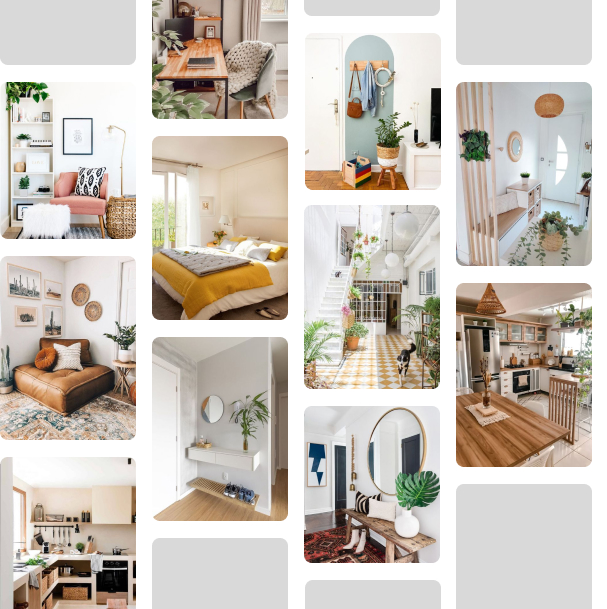
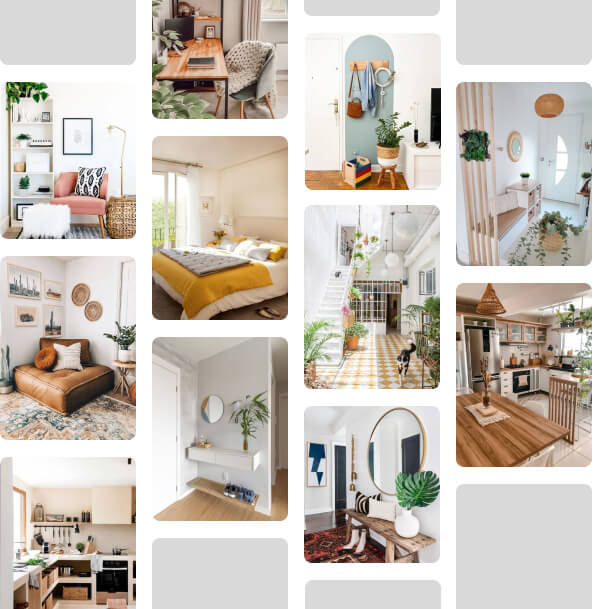
cambio imagenes comprimidas

diff --git a/pages/servicios.html b/pages/servicios.html
@@ -99,7 +99,7 @@
             <div class="row g-0">
               <div class="col-md-4">
                 <img
-                  src="../assets/images/jpeg/cards/card1.jpg"
+                  src="../assets/images/jpeg/cards/card1.webp"
                   class="img-fluid rounded-start"
                   alt="..."
                 />
@@ -126,7 +126,7 @@
             <div class="row g-0">
               <div class="col-md-4">
                 <img
-                  src="../assets/images/jpeg/cards/card2.jpg"
+                  src="../assets/images/jpeg/cards/card2.webp"
                   class="img-fluid rounded-start"
                   alt="..."
                 />
@@ -153,7 +153,7 @@
             <div class="row g-0">
               <div class="col-md-4">
                 <img
-                  src="../assets/images/jpeg/cards/card3.jpg"
+                  src="../assets/images/jpeg/cards/card3.webp"
                   class="img-fluid rounded-start"
                   alt="..."
                 />
@@ -180,7 +180,7 @@
             <div class="row g-0">
               <div class="col-md-4">
                 <img
-                  src="../assets/images/jpeg/cards/card4.jpg"
+                  src="../assets/images/jpeg/cards/card4.webp"
                   class="img-fluid rounded-start"
                   alt="..."
                 />
